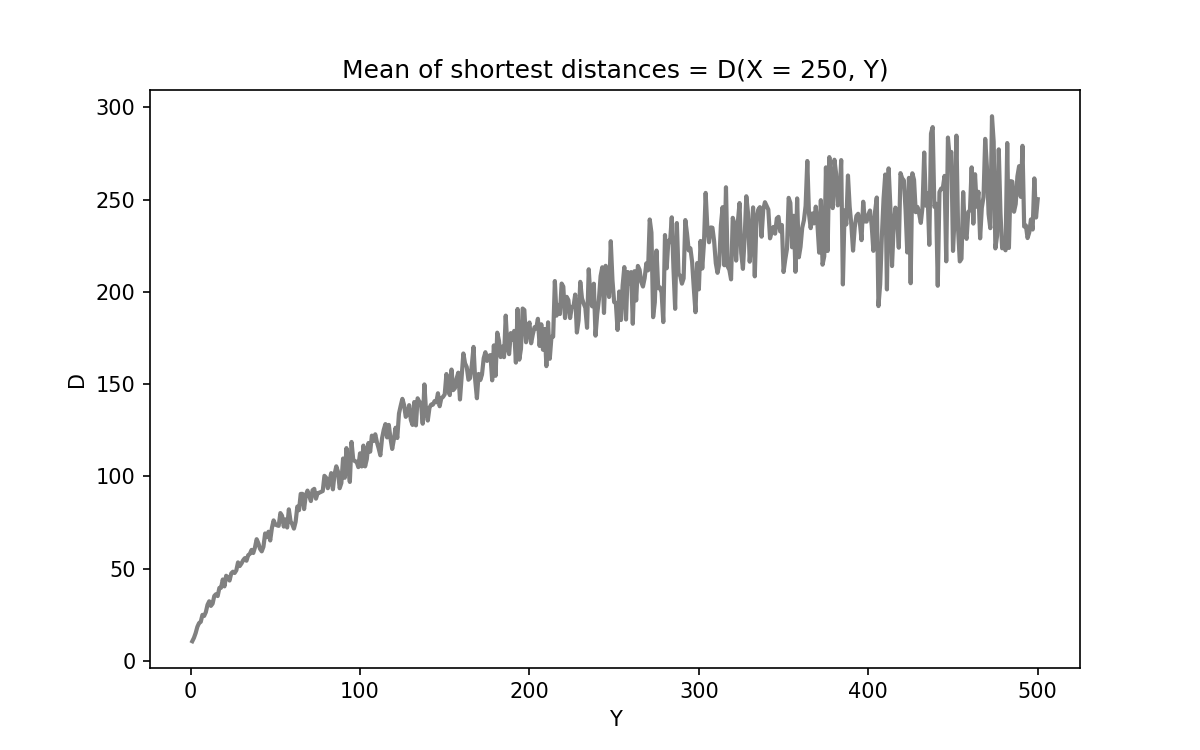
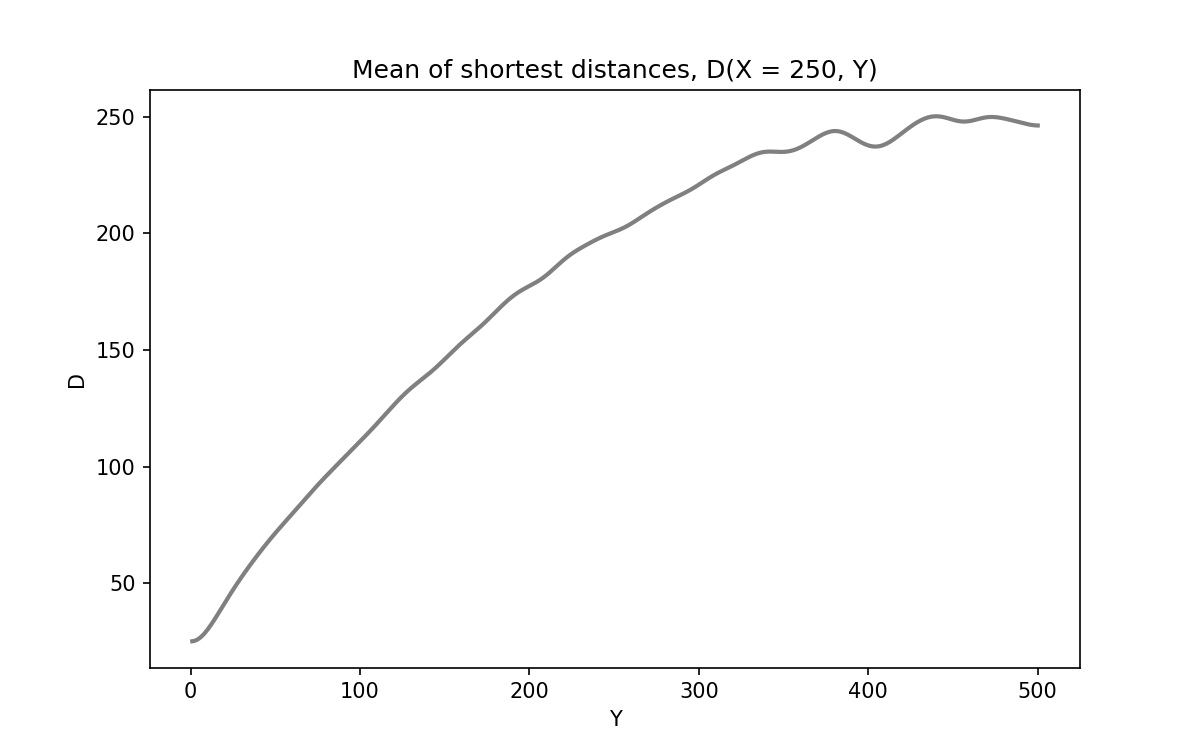
Asher Chen commited at 2023-01-14_00-49-22

diff --git a/test/p_n-1000_x-1-500_y-1-500.py b/test/p_n-1000_x-1-500_y-1-500.py
@@ -9,18 +9,25 @@ data = read_csv('output/d_n-1000_x-1-500_y-1-500.csv')
 
 # prepare
 #
-x_min, x_max = 1, 500
-y_min, y_max = 1, 500
-x_cnt, y_cnt = x_max - x_min + 1, y_max - y_min + 1
+x_bin = data[['X']].max()[0] - data[['X']].min()[0] + 1
+y_bin = data[['Y']].max()[0] - data[['Y']].min()[0] + 1
 
 x, y = np.meshgrid(
-  np.linspace(x_min, x_max, x_cnt),
-  np.linspace(y_min, y_max, y_cnt)
+  np.linspace(
+    data[['X']].min()[0],
+    data[['X']].max()[0],
+    x_bin
+  ),
+  np.linspace(
+    data[['Y']].min()[0],
+    data[['Y']].max()[0],
+    y_bin
+  )
 )
 
 d = np.reshape(
   data[['D']].transpose().to_numpy(),
-  (x_cnt, y_cnt)
+  (x_bin, y_bin)
 ).transpose()
 
 # plot
@@ -32,7 +39,7 @@ plt.contourf(x, y, d, cmap='CMRmap')
 #
 plt.xlabel('X')
 plt.ylabel('Y')
-plt.title('Mean of shortest distances = D(X, Y)')
+plt.title('Mean of shortest distances, D(X, Y)')
 plt.colorbar().set_label('D')
 
 # output

diff --git a/test/p_n-1000_x-1-500.py b/test/p_n-1000_x-1-500.py
@@ -1,6 +1,7 @@
 import numpy as np
 import matplotlib.pyplot as plt
 from pandas import read_csv
+from scipy.ndimage import gaussian_filter1d
 
 # input
 #
@@ -8,19 +9,22 @@ data = read_csv('output/d_n-1000_x-1-500_y-1-500.csv')
 
 # prepare
 #
-arg = data[data['Y'] == 250].transpose().to_numpy()
-x, d = arg[0], arg[2]
+y = (data[['Y']].max()[0] + data[['Y']].min()[0]) // 2
+
+arg = data[data['Y'] == y].to_numpy().transpose()
+x, d = arg[0], gaussian_filter1d(arg[2], sigma=10)
 
 # plot
 #
 fig = plt.figure(figsize=(8, 5))
-plt.plot(x, d, color='gray', linewidth=2)
+
+plt.plot(x, d, color = 'gray', linewidth = 2)
 
 # label
 #
 plt.xlabel('X')
 plt.ylabel('D')
-plt.title('Mean of shortest distances = D(X, Y = 250)')
+plt.title(f'Mean of shortest distances, D(X, Y = {y})')
 
 # output
 #

diff --git a/test/p_n-1000_y-1-500.py b/test/p_n-1000_y-1-500.py
@@ -1,6 +1,7 @@
 import numpy as np
 import matplotlib.pyplot as plt
 from pandas import read_csv
+from scipy.ndimage import gaussian_filter1d
 
 # input
 #
@@ -8,8 +9,10 @@ data = read_csv('output/d_n-1000_x-1-500_y-1-500.csv')
 
 # prepare
 #
-arg = data[data['X'] == 250].transpose().to_numpy()
-y, d = arg[1], arg[2]
+x = (data[['X']].max()[0] + data[['X']].min()[0]) // 2
+
+arg = data[data['X'] == x].to_numpy().transpose()
+y, d = arg[1], gaussian_filter1d(arg[2], sigma=10)
 
 # plot
 #
@@ -20,7 +23,7 @@ plt.plot(y, d, color='gray', linewidth=2)
 #
 plt.xlabel('Y')
 plt.ylabel('D')
-plt.title('Mean of shortest distances = D(X = 250, Y)')
+plt.title(f'Mean of shortest distances, D(X = {x}, Y)')
 
 # output
 #
